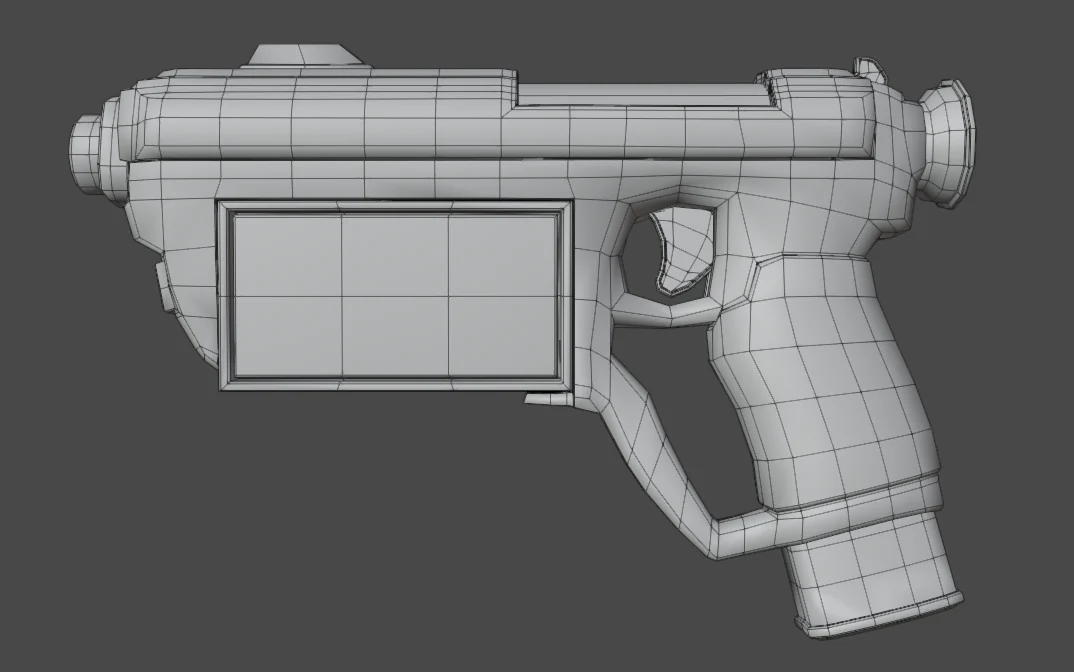
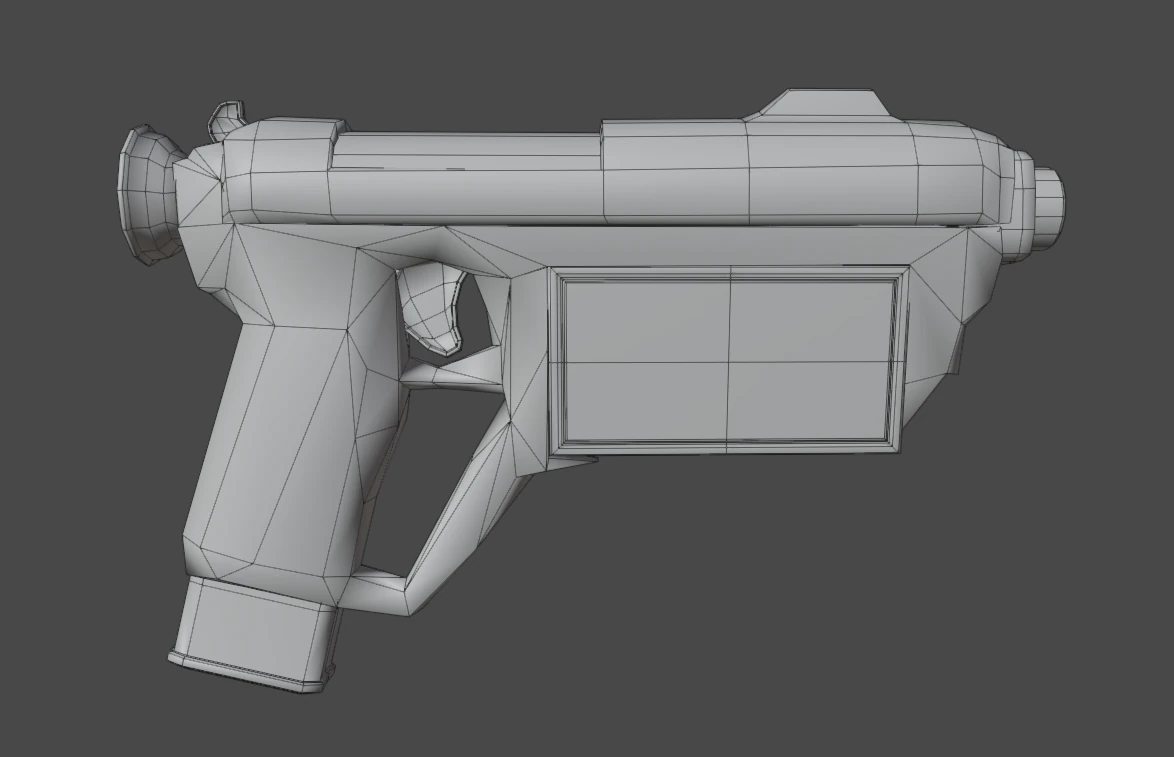
wireframe photos fix

diff --git a/content/winterlight.js b/content/winterlight.js
@@ -159,7 +159,7 @@
               <li>Environment surface materials came from a licensed paid PBR material library; I built and dressed the playable space around the research requirements.</li>
               <li>The CRT post-process was a commercial shader asset that I integrated and tuned as part of the retro presentation.</li>
               <li>All sound effects were sourced from Pixabay.</li>
-              <li>Original music was produced by Vlad under my direction.</li>
+              <li>Original music was produced by a music producer under my direction.</li>
               <li>C# implementation used AI-assisted coding based on my system design and requirements. I integrated, tested, debugged and iterated the systems in Unity.</li>
             </ul>
           </article>
@@ -299,7 +299,7 @@
 
         <div class="wl-credits">
           <span class="technical-label">Credits</span>
-          <p>Solo dissertation project by Andrei-Constantin Purcăreață. Original music produced by Vlad under my direction. SFX sourced from Pixabay. Environment surfaces use licensed paid PBR materials. CRT presentation uses a commercial post-process asset integrated and tuned for the project.</p>
+          <p>Solo dissertation project by Andrei-Constantin Purcăreață. Original music produced by a music producer under my direction. SFX sourced from Pixabay. Environment surfaces use licensed paid PBR materials. CRT presentation uses a commercial post-process asset integrated and tuned for the project.</p>
         </div>
       </section>
     </div>`;

diff --git a/index.html b/index.html
@@ -10,10 +10,10 @@
     />
     <title>Andrei-Constantin Purcăreață — Technical Artist</title>
     <link rel="stylesheet" href="./styles.css?v=10" />
-    <link rel="stylesheet" href="./winterlight.css?v=3" />
+    <link rel="stylesheet" href="./winterlight.css?v=4" />
     <script src="./content/portfolio.js?v=12" defer></script>
     <script src="./site.js?v=10" defer></script>
-    <script src="./content/winterlight.js?v=3" defer></script>
+    <script src="./content/winterlight.js?v=4" defer></script>
   </head>
   <body>
     <a class="skip-link" href="#selected-work">Skip to selected work</a>

diff --git a/winterlight.css b/winterlight.css
@@ -768,3 +768,35 @@
     min-height: 240px;
   }
 }
+
+
+/* Final wireframe comparison polish */
+.wl-wire-pair {
+  align-items: stretch;
+}
+
+.wl-wire-pair figure {
+  display: grid;
+  grid-template-rows: 1fr auto;
+  height: 100%;
+}
+
+.wl-wire-pair .zoomable-image {
+  min-height: 0;
+  height: auto;
+  aspect-ratio: 16 / 10;
+}
+
+.wl-wire-pair .zoomable-image img {
+  width: 100%;
+  height: 100%;
+  object-fit: contain;
+  object-position: center;
+}
+
+@media (max-width: 700px) {
+  .wl-wire-pair .zoomable-image {
+    aspect-ratio: 16 / 10;
+    min-height: 0;
+  }
+}

diff --git a/README.md b/README.md
@@ -1,17 +1,21 @@
-# Winterlight mobile video fix
+# Winterlight final polish fix
 
-Replace:
+Replace / add these files in the portfolio repo:
 
-- `content/winterlight.js`
 - `index.html`
+- `content/winterlight.js`
+- `winterlight.css`
+- `assets/images/winterlight/gun-wire-modern.webp`
+- `assets/images/winterlight/gun-wire-retro.webp`
 
-Then commit and push.
+Changes in this patch:
 
-What changed:
+- Preserves the mobile autoplay/video reliability fix.
+- Corrects the wireframe identities:
+  - Modern = higher-poly topology image.
+  - Retro = lower-poly topology image.
+- Forces both wireframe comparison cards to the same aspect ratio and visual height.
+- Changes the music prose to `music producer` rather than naming Vlad in the sentence.
+- Bumps Winterlight CSS/JS cache versions to `v=4`.
 
-- Winterlight loop videos now request `autoplay`, `muted`, `playsinline`, `webkit-playsinline`, and `preload="auto"`.
-- The script also sets the equivalent DOM properties before attempting playback.
-- Dynamically inserted hero and case-study videos are explicitly loaded and played.
-- Visible videos are retried on the first tap/click, `pageshow`, and when the page becomes visible again.
-- IntersectionObserver remains in place so off-screen technical loops pause.
-- Cache query for `winterlight.js` was bumped to `v=3`.
+After replacing the files, commit and push. On mobile, refresh once after GitHub Pages finishes deploying.
